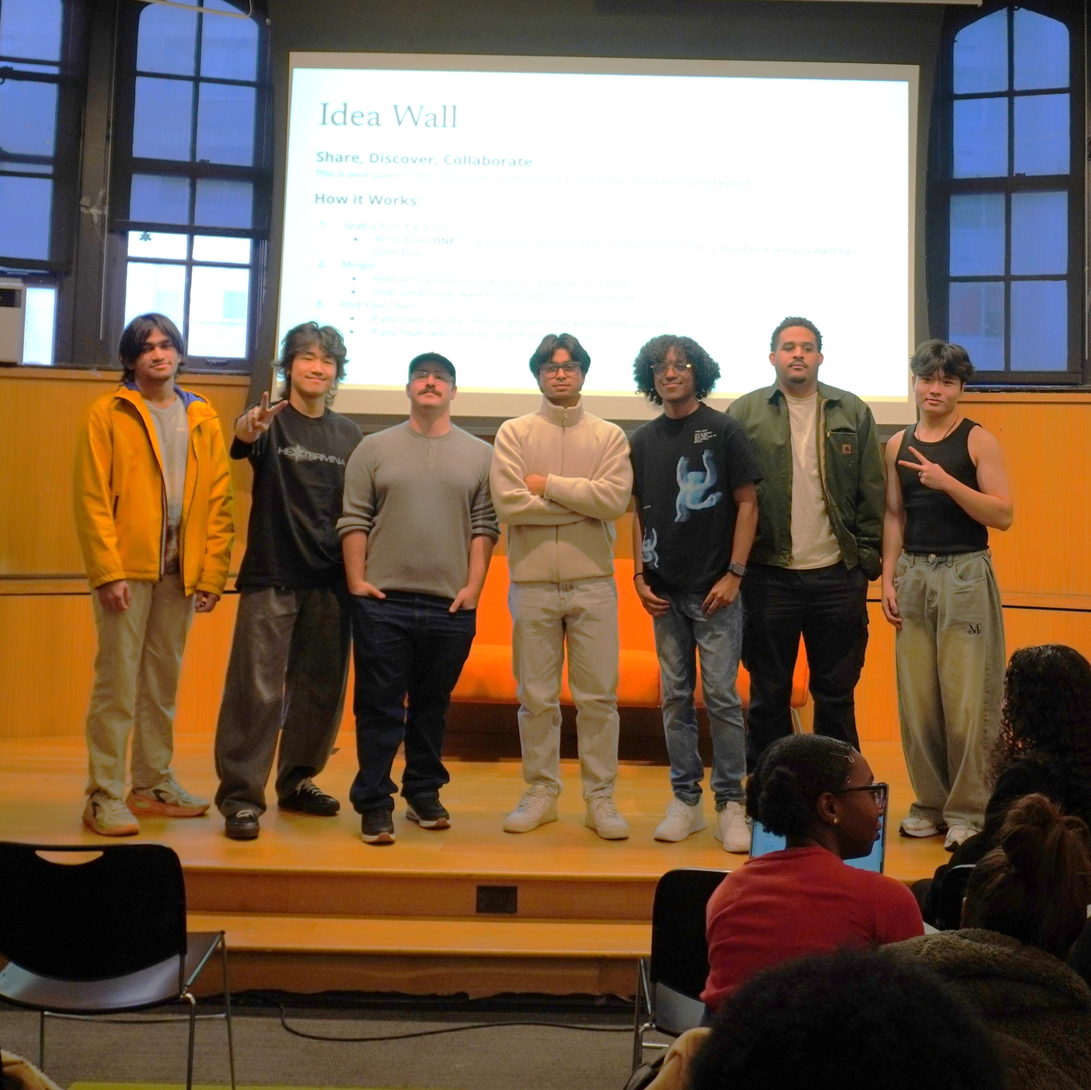
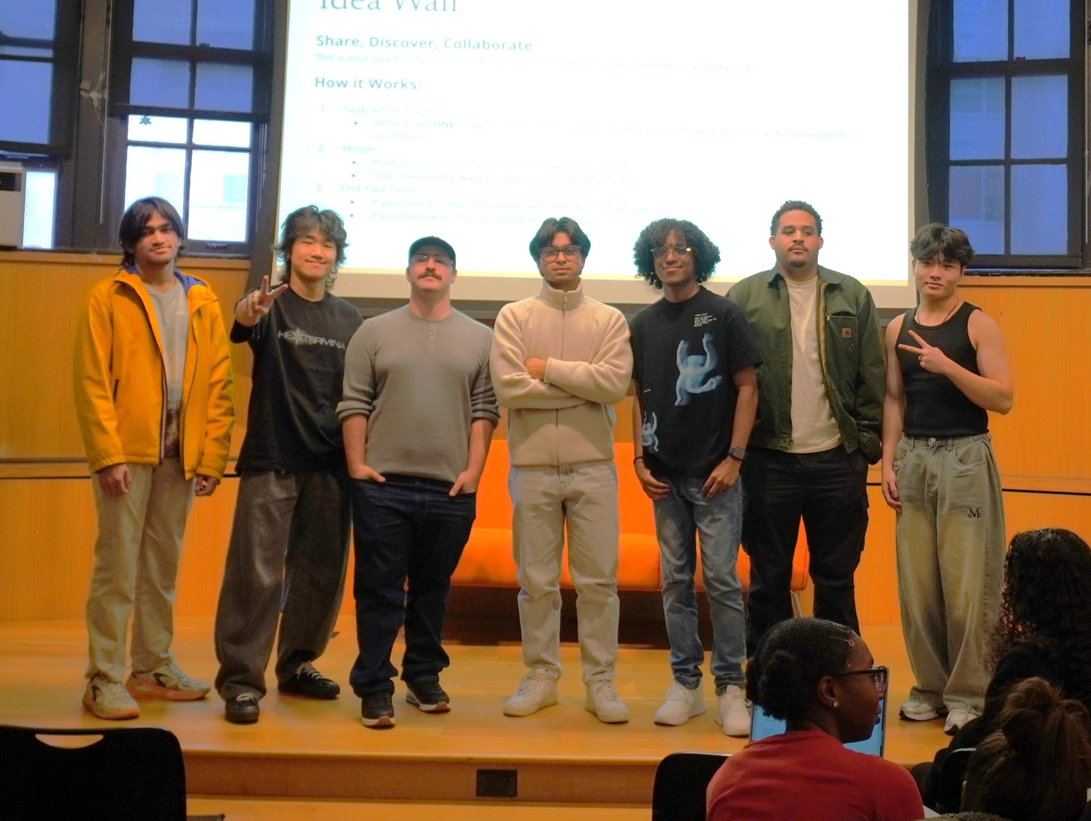
UI/UX fixes

diff --git a/src/app/_components/JoinUs.tsx b/src/app/_components/JoinUs.tsx
@@ -8,68 +8,71 @@ import JoinUsForm from "@/components/ui/JoinUsForm";
 
 export default function JoinUs() {
   return (
-    <section className="bg-neutral-100 md:m-8 m-6 rounded-2xl relative overflow-hidden grid grid-rows-2 md:grid-cols-2">
-      <header className="md:p-12 p-8 md:row-span-2">
-        <h1 className="md:text-4xl text-3xl mb-2 md:leading-12 leading-10">
-          Accelerate your start up journey
-        </h1>
-        <Dialog>
-          <DialogTrigger asChild>
-            <button className="md:text-2xl text-xl text-main cursor-pointer mb-8">
-              <span>Join our club today</span>{" "}
-              <MdOutlineKeyboardArrowRight className="inline-block" />
-            </button>
-          </DialogTrigger>
-          <JoinUsForm />
-        </Dialog>
-        <div className="flex items-center gap-8">
-          <Link
-            href="https://www.linkedin.com/company/founders-hunter-1/"
-            className="md:text-xl text-lg p-2 rounded-lg hover:bg-neutral-200 hover:scale-105 transition-all duration-300 ease-in-out text-neutral-500"
-            target="_blank"
-          >
-            <FaLinkedin className="block" />
-          </Link>
-          <Link
-            href="https://www.instagram.com/hunter.founders/"
-            className="md:text-xl text-lg p-2 rounded-lg hover:bg-neutral-200 hover:scale-105 transition-all duration-300 ease-in-out text-neutral-500"
-            target="_blank"
-          >
-            <RiInstagramFill className="block" />
-          </Link>
-          <Link
-            href="https://discord.com/invite/c4ax3fSCqN"
-            className="md:text-xl text-lg p-2 rounded-lg hover:bg-neutral-200 hover:scale-105 transition-all duration-300 ease-in-out text-neutral-500"
-            target="_blank"
-          >
-            <FaDiscord className="block" />
-          </Link>
-          <Link
-            href="https://chat.whatsapp.com/GyaXWGdD84cFlcYtOBNA4f"
-            className="md:text-2xl text-xl p-2 rounded-lg hover:bg-neutral-200 hover:scale-105 transition-all duration-300 ease-in-out text-neutral-500"
-            target="_blank"
-          >
-            <RiWhatsappFill className="block" />
-          </Link>
-        </div>
-      </header>
-      <div className="relative md:row-span-2">
-        <img
-          src="/apps.png"
-          alt="Apps"
-          className="absolute w-full h-full object-cover"
-        />
-        <div
-          className="absolute inset-0 w-full h-full"
-          style={{
-            background: `
+    <>
+      <hr className="opacity-20 mb-2 md:mx-8 mx-6" />
+      <section className="bg-neutral-100 md:mx-8 mx-6 md:my-6 my-4 rounded-2xl relative overflow-hidden grid grid-rows-2 md:grid-cols-2">
+        <header className="md:p-12 p-6 md:row-span-2">
+          <h1 className="md:text-4xl text-3xl mb-2 md:leading-12 leading-10 font-medium tracking-wide">
+            Accelerate your Entrepreneurship
+          </h1>
+          <Dialog>
+            <DialogTrigger asChild>
+              <button className="md:text-2xl text-xl text-main cursor-pointer md:mb-8 mb-4">
+                <span>Join our club today</span>{" "}
+                <MdOutlineKeyboardArrowRight className="inline-block" />
+              </button>
+            </DialogTrigger>
+            <JoinUsForm />
+          </Dialog>
+          <div className="flex items-center gap-8">
+            <Link
+              href="https://www.linkedin.com/company/founders-hunter-1/"
+              className="md:text-xl text-lg p-2 rounded-lg hover:bg-neutral-200 hover:scale-105 transition-all duration-300 ease-in-out text-neutral-500"
+              target="_blank"
+            >
+              <FaLinkedin className="block" />
+            </Link>
+            <Link
+              href="https://www.instagram.com/hunter.founders/"
+              className="md:text-xl text-lg p-2 rounded-lg hover:bg-neutral-200 hover:scale-105 transition-all duration-300 ease-in-out text-neutral-500"
+              target="_blank"
+            >
+              <RiInstagramFill className="block" />
+            </Link>
+            <Link
+              href="https://discord.com/invite/c4ax3fSCqN"
+              className="md:text-xl text-lg p-2 rounded-lg hover:bg-neutral-200 hover:scale-105 transition-all duration-300 ease-in-out text-neutral-500"
+              target="_blank"
+            >
+              <FaDiscord className="block" />
+            </Link>
+            <Link
+              href="https://chat.whatsapp.com/GyaXWGdD84cFlcYtOBNA4f"
+              className="md:text-2xl text-xl p-2 rounded-lg hover:bg-neutral-200 hover:scale-105 transition-all duration-300 ease-in-out text-neutral-500"
+              target="_blank"
+            >
+              <RiWhatsappFill className="block" />
+            </Link>
+          </div>
+        </header>
+        <div className="relative md:row-span-2">
+          <img
+            src="/apps.png"
+            alt="Apps"
+            className="absolute w-full h-full object-cover"
+          />
+          <div
+            className="absolute inset-0 w-full h-full"
+            style={{
+              background: `
     radial-gradient(circle at center, rgba(245,245,245,0) 50%, #f5f5f5 100%),
     linear-gradient(to bottom, #f5f5f5 5%, rgba(245,245,245,0) 40%, rgba(245,245,245,0) 60%, #f5f5f5 95%),
     linear-gradient(to right, #f5f5f5 0%, rgba(245,245,245,0) 20%, rgba(245,245,245,0) 80%, #f5f5f5 100%)
   `,
-          }}
-        />
-      </div>
-    </section>
+            }}
+          />
+        </div>
+      </section>
+    </>
   );
 }

diff --git a/src/app/events/[eventTitle]/_components/EventAside.tsx b/src/app/events/[eventTitle]/_components/EventAside.tsx
@@ -4,6 +4,8 @@ import React, { useEffect, useMemo, useState } from "react";
 import Link from "next/link";
 import { cn } from "@/lib/utils";
 import { hasDatePassed } from "@/constants";
+import { IoLocationSharp } from "react-icons/io5";
+import { HiClock } from "react-icons/hi";
 
 export default function EventAside({
   event,
@@ -14,7 +16,8 @@ export default function EventAside({
     description: string;
     date: string;
     room: string;
-    time: string;
+    startTime: string;
+    endTime: string;
     photo: string;
     link: string;
     tags: string[];
@@ -49,27 +52,30 @@ export default function EventAside({
         onMonthChange={setMonth}
       />
       <ul className="mb-2 grid grid-cols-3 gap-2 items-stretch mt-auto">
-        <li className="flex flex-col gap-0.5 px-4 py-2 bg-neutral-100 rounded-xl">
-          <p className="text-xs font-light tracking-wider text-neutral-500">
-            Date
+        <li className="flex flex-col gap-0.5 px-4 py-2 bg-neutral-100 rounded-xl justify-between">
+          <p className="text-xs font-light tracking-wider text-neutral-500 mb-2">
+            Start
           </p>
-          <span className="font-bold text-xs">
-            {event.date ? event.date.split(" ").slice(0, 2).join(" ") : "-"}
+          <span className="font-bold text-xs text-neutral-700">
+            <HiClock className="inline-flex mr-1" />
+            {event.startTime ? event.startTime : "-"}
           </span>
         </li>
-        <li className="flex flex-col gap-0.5 px-4 py-2 bg-neutral-100 rounded-xl">
-          <p className="text-xs font-light tracking-wider text-neutral-500">
-            Time
+        <li className="flex flex-col gap-0.5 px-4 py-2 bg-neutral-100 rounded-xl justify-between">
+          <p className="text-xs font-light tracking-wider text-neutral-500 mb-2">
+            End
           </p>
-          <span className="font-bold text-xs">
-            {event.time ? event.time : "-"}
+          <span className="font-bold text-xs text-neutral-700">
+            <HiClock className="inline-flex mr-1" />
+            {event.endTime ? event.endTime : "-"}
           </span>
         </li>
-        <li className="flex flex-col gap-0.5 px-4 py-2 bg-neutral-100 rounded-xl">
-          <p className="text-xs font-light tracking-wider text-neutral-500">
+        <li className="flex flex-col gap-0.5 px-4 py-2 bg-neutral-100 rounded-xl justify-between">
+          <p className="text-xs font-light tracking-wider text-neutral-500 mb-2">
             Room
           </p>
-          <span className="font-bold text-xs">
+          <span className="font-bold text-xs text-neutral-700">
+            <IoLocationSharp className="inline-flex mr-1" />
             {event.room ? event.room : "-"}
           </span>
         </li>

diff --git a/src/app/events/_components/EventList.tsx b/src/app/events/_components/EventList.tsx
@@ -1,5 +1,4 @@
-"use client";
-import React, { useState } from "react";
+import React from "react";
 import events from "@/constants/events.json";
 import Link from "next/link";
 import { GoArrowUpRight } from "react-icons/go";
@@ -7,7 +6,7 @@ import { HiHashtag } from "react-icons/hi";
 import { getPopularTags, getUpcomingEvents, hasDatePassed } from "@/constants";
 
 export default function EventList() {
-  const [featuredEvents, setFeaturedEvents] = useState(events.reverse());
+  const featuredEvents = [...events].reverse();
   const popularTags = getPopularTags();
   return (
     <div className="md:grid flex flex-col grid-cols-10 md:px-8 px-6 md:py-6 py-4 md:gap-6 gap-4 relative">
@@ -30,6 +29,9 @@ export default function EventList() {
               <GoArrowUpRight className="absolute top-1/2 left-1/2 -translate-x-1/2 -translate-y-1/2 text-6xl text-white z-10 group-hover:opacity-100 opacity-0 transition-all duration-300 ease-in-out" />
             </div>
             <header className="p-2">
+              <h6 className="tracking-wider text-[#FFC72A] mb-2 text-sm brightness-95">
+                {event.subtitle}
+              </h6>
               <h2 className="md:text-2xl text-xl text-neutral-700 mb-2 font-medium">
                 {event.title}
               </h2>

diff --git a/src/app/(home)/_components/WhatStudentsGain.tsx b/src/app/(home)/_components/WhatStudentsGain.tsx
@@ -245,8 +245,9 @@ export default function WhatStudentsGain() {
               Present your work
             </h5>
             <p className="text-neutral-700 mb-3 md:text-base text-sm">
-              Share to the world your projects, ideas, and goals. Hear back from
-              peers, connect with investors, and celebrate your wins with us.
+              Share to the world your projects, ideas, and your goals. Hear back
+              from peers, connect with investors, and celebrate your wins with
+              us.
             </p>
             <Dialog>
               <DialogTrigger asChild>

diff --git a/src/app/(home)/_components/Hero.tsx b/src/app/(home)/_components/Hero.tsx
@@ -25,9 +25,9 @@ export default function Hero() {
         <div className="space-x-3">
           <Link
             className="px-5 py-2 rounded-xl bg-main/10 text-main cursor-pointer hover:brightness-110 hover:scale-105 transition-all duration-300 ease-in-out md:text-base text-sm inline-block"
-            href="#events"
+            href="https://www.hunter.cuny.edu/news/two-hunter-college-seniors-start-club-for-tech-entrepreneurs/"
           >
-            Learn more
+            Our story
           </Link>
           <Dialog>
             <DialogTrigger asChild>

diff --git a/src/app/(home)/_components/Events.tsx b/src/app/(home)/_components/Events.tsx
@@ -6,7 +6,7 @@ import { GoArrowRight, GoArrowUpRight } from "react-icons/go";
 
 export default function Events() {
   return (
-    <div className="md:px-8 px-6 md:py-6 py-4 scroll-mt-24" id="events">
+    <div className="md:px-8 px-6 md:py-6 py-4">
       <header className="space-y-2.5 mb-6">
         <h6 className="bg-[#FFC72A]/7.5 text-[#FFC72A] brightness-95 outline-1 -outline-offset-1 outline-[#FFC72A]/15 w-fit rounded-full px-4 py-1.5 font-normal md:text-sm text-xs md:mb-4 mb-3 tracking-wide shadow-xs shadow-[#FFC72A]/40">
           Featured Events

diff --git a/src/depracated/components/apple-cards-carousel.tsx b/src/depracated/components/apple-cards-carousel.tsx
@@ -96,7 +96,7 @@
 //           onScroll={handleScroll}
 //           data-carousel-container
 //         >
-//           <div className="flex flex-row justify-start gap-4 pl-4 pr-4 max-w-[1920px] mx-auto">
+//           <div className="flex flex-row justify-start gap-4 pl-4 pr-4 max-w-[1896px] mx-auto">
 //             {items.map((item, index) => (
 //               <div key={"card" + index} style={{ scrollSnapAlign: "start" }}>
 //                 {item}

diff --git a/src/app/about/_components/OurStory.tsx b/src/app/about/_components/OurStory.tsx
@@ -36,7 +36,7 @@ export default function WhoWeAre() {
         <img
           src="/team.JPG"
           alt="Our team"
-          className="w-full h-full max-w-2xl lg:ml-auto lg:mr-0 mx-auto object-cover rounded-2xl saturate-75"
+          className="w-full h-full max-w-2xl lg:ml-auto lg:mr-0 mx-auto object-cover rounded-2xl saturate-75 drop-shadow-2xl"
           style={{ borderRadius: "50% 20% / 10% 40%" }}
         />
       </aside>

diff --git a/src/components/ui/NavMenu.tsx b/src/components/ui/NavMenu.tsx
@@ -26,7 +26,7 @@ export default function NavMenu() {
 
   return (
     <nav className="bg-white fixed top-0 w-full z-20">
-      <div className="flex items-center justify-between max-w-[1920px] m-auto py-4 px-8">
+      <div className="flex items-center justify-between max-w-[1896px] m-auto py-4 px-8">
         <Link href="/" className="flex items-center justify-center gap-2">
           <Image
             src="/founders_logo_icon.png"

diff --git a/src/app/layout.tsx b/src/app/layout.tsx
@@ -85,7 +85,7 @@ export default function RootLayout({
       <body className={font.className} id="portal-root">
         <RootProvider>
           <NavMenu />
-          <main className="mt-[82px] max-w-[1920px] mx-auto">
+          <main className="mt-[82px] max-w-[1896px] mx-auto">
             {children}
             <JoinUs />
             <Footer />

diff --git a/src/depracated/pages/projects/page.tsx b/src/depracated/pages/projects/page.tsx
@@ -12,7 +12,7 @@
 //   return (
 //     <>
 //       {/* mt-[105px] (NavMenu: 81px) */}
-//       <main className="mt-[81px] max-w-[1920px] m-auto">
+//       <main className="mt-[81px] max-w-[1896px] m-auto">
 //         <ProjectsHeader />
 //         <Projects />
 //         <Footer />

diff --git a/src/depracated/pages/about/page.tsx b/src/depracated/pages/about/page.tsx
@@ -12,7 +12,7 @@
 // export default function About() {
 //   return (
 //     <>
-//       <main className="mt-[81px] max-w-[1920px] m-auto">
+//       <main className="mt-[81px] max-w-[1896px] m-auto">
 //         <Mission />
 //         <CoreValues />
 //         <Team />
